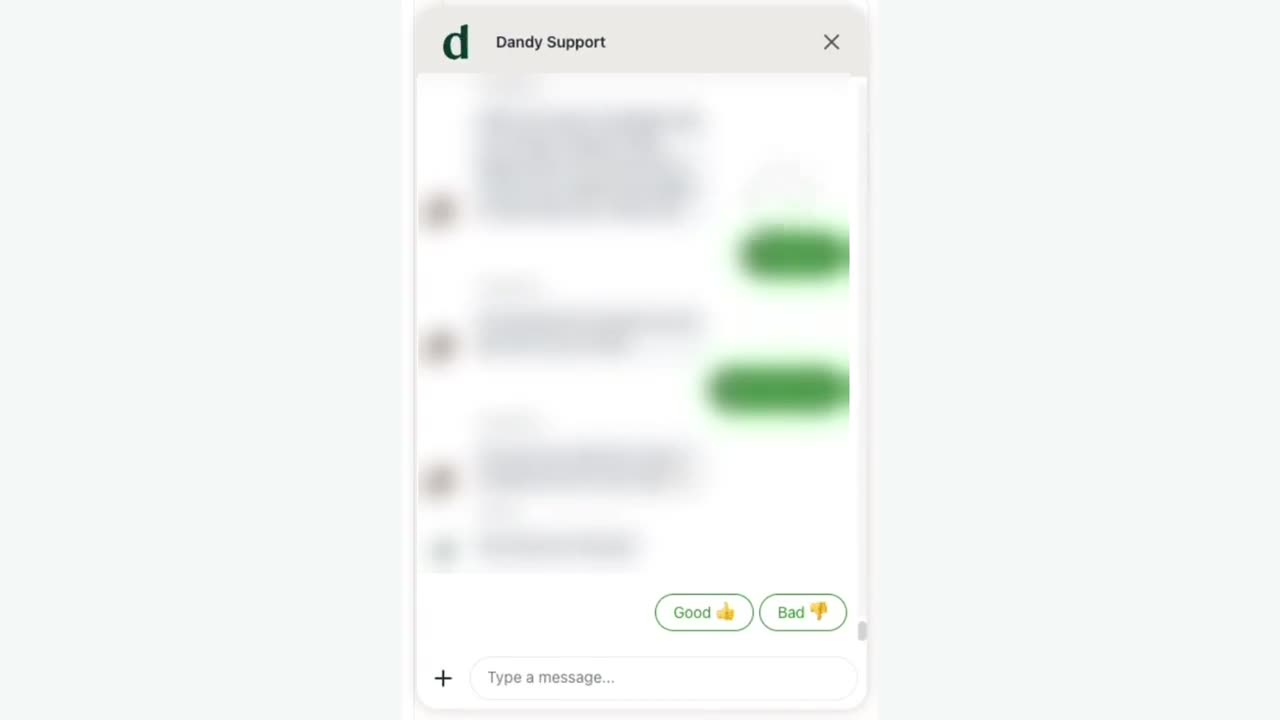
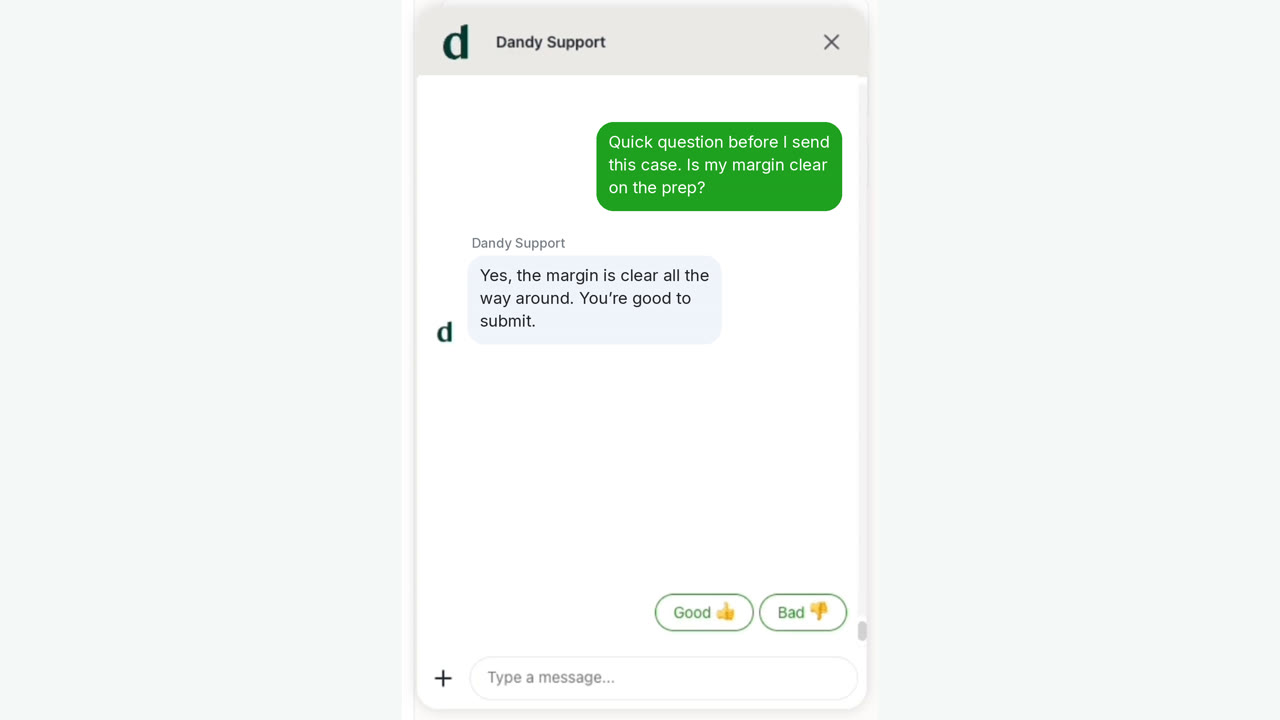
all/: generic example lab chat clip + poster; bump ?v=3, alt text and footnote (EN+ES)

diff --git a/all/es/index.html b/all/es/index.html
@@ -417,11 +417,11 @@ input[type=range]:active::-webkit-slider-thumb{transform:scale(1.15);box-shadow:
     <div class="feat">
       <figure class="feat-card"><div class="feat-media"><video data-feat data-src="../media/features/design-preview.mp4?v=1" poster="../media/features/design-preview.webp?v=1" muted loop playsinline autoplay preload="none" width="1280" height="720" aria-label="Video de la vista previa del diseño: revisión de márgenes, mapa de calor de contactos y marcado de una zona a corregir en el diseño 3D de una corona." title="Video de la vista previa del diseño: revisión de márgenes, mapa de calor de contactos y marcado de una zona a corregir en el diseño 3D de una corona."></video></div><figcaption><h3>Vista previa del diseño</h3><p>Apruebe el diseño antes de que se fabrique. Revise márgenes, contactos y contornos, marque lo que quiere cambiar y compare versiones.</p></figcaption></figure>
       <figure class="feat-card"><div class="feat-media"><video data-feat data-src="../media/features/live-scan.mp4?v=1" poster="../media/features/live-scan.webp?v=1" muted loop playsinline autoplay preload="none" width="1280" height="720" aria-label="Video del escaneo: un modelo 3D que se construye en tiempo real con vista de cámara en vivo." title="Video del escaneo: un modelo 3D que se construye en tiempo real con vista de cámara en vivo."></video></div><figcaption><h3>Revisión del escaneo en vivo</h3><p>Un técnico de laboratorio revisa su escaneo en menos de 2 minutos, por chat o por teléfono, mientras el paciente sigue en el sillón.</p></figcaption></figure>
-      <figure class="feat-card"><div class="feat-media"><video data-feat data-src="../media/features/lab-chat.mp4?v=2" poster="../media/features/lab-chat.webp?v=2" muted loop playsinline autoplay preload="none" width="1280" height="720" aria-label="Video del chat con el laboratorio: una chat de soporte dentro del portal de Dandy. Mensajes ocultos." title="Video del chat con el laboratorio: una conversación de soporte dentro del portal de Dandy. Nombres ocultos."></video></div><figcaption><h3>Chat con el laboratorio</h3><p>Respuestas en menos de un minuto, desde el mismo caso.</p></figcaption></figure>
+      <figure class="feat-card"><div class="feat-media"><video data-feat data-src="../media/features/lab-chat.mp4?v=3" poster="../media/features/lab-chat.webp?v=3" muted loop playsinline autoplay preload="none" width="1280" height="720" aria-label="Video del chat con el laboratorio: una chat de soporte dentro del portal de Dandy. Mensajes ocultos." title="Video del chat con el laboratorio: una conversación de soporte dentro del portal de Dandy. Nombres ocultos."></video></div><figcaption><h3>Chat con el laboratorio</h3><p>Respuestas en menos de un minuto, desde el mismo caso.</p></figcaption></figure>
       <figure class="feat-card"><div class="feat-media"><video data-feat data-src="../media/features/track-cases.mp4?v=2" poster="../media/features/track-cases.webp?v=2" muted loop playsinline autoplay preload="none" width="1280" height="720" aria-label="Video del panel de pedidos: cada caso con su estado y la opción para modificar la receta. Datos del caso ocultos." title="Video del panel de pedidos: cada caso con su estado, fecha de entrega y opción para modificar la receta. Nombres de pacientes ocultos."></video></div><figcaption><h3>Seguimiento de cada caso</h3><p>Vea todos sus casos, edite la receta y siga el envío, en la computadora o en la app móvil.</p></figcaption></figure>
       <figure class="feat-card feat-wide"><div class="feat-media"><img src="../media/features/video-call.webp?v=1" alt="Pantalla para agendar una videollamada con un técnico de laboratorio para revisar, modificar y aprobar un diseño. Rostros ocultos." width="1156" height="1020" loading="lazy" decoding="async"></div><figcaption><div class="feat-tag">Vista previa del diseño</div><h3>Revise el diseño en vivo</h3><p>Recorra el diseño en vivo con un técnico por videollamada antes de que pase a fabricación.</p></figcaption></figure>
     </div>
-    <p class="note">Videos del portal de Dandy y del software Chairside. Datos de los casos ocultos.</p>
+    <p class="note">Videos del portal de Dandy y del software Chairside. Datos de los casos ocultos. El chat es un ejemplo.</p>
   </div>
 </section>
 

diff --git a/all/index.html b/all/index.html
@@ -416,11 +416,11 @@ input[type=range]:active::-webkit-slider-thumb{transform:scale(1.15);box-shadow:
     <div class="feat">
       <figure class="feat-card"><div class="feat-media"><video data-feat data-src="media/features/design-preview.mp4?v=1" poster="media/features/design-preview.webp?v=1" muted loop playsinline autoplay preload="none" width="1280" height="720" aria-label="Design Preview clip: reviewing margin lines, a contact heatmap, and marking a problem area on a 3D crown design." title="Design Preview clip: reviewing margin lines, a contact heatmap, and marking a problem area on a 3D crown design."></video></div><figcaption><h3>Design Preview</h3><p>Approve the design before it&rsquo;s made. Check margins, contacts and contours, mark what to change, and compare versions.</p></figcaption></figure>
       <figure class="feat-card"><div class="feat-media"><video data-feat data-src="media/features/live-scan.mp4?v=1" poster="media/features/live-scan.webp?v=1" muted loop playsinline autoplay preload="none" width="1280" height="720" aria-label="Scanning clip: a 3D scan building in real time with a live camera view." title="Scanning clip: a 3D scan building in real time with a live camera view."></video></div><figcaption><h3>Live scan review</h3><p>A lab technician reviews your scan in under 2 minutes, by chat or phone, while the patient is still in the chair.</p></figcaption></figure>
-      <figure class="feat-card"><div class="feat-media"><video data-feat data-src="media/features/lab-chat.mp4?v=2" poster="media/features/lab-chat.webp?v=2" muted loop playsinline autoplay preload="none" width="1280" height="720" aria-label="Lab chat clip: a support chat inside the Dandy portal. Messages hidden." title="Lab chat clip: a support conversation inside the Dandy portal. Names hidden."></video></div><figcaption><h3>Lab chat</h3><p>Questions answered in under a minute, right from the case.</p></figcaption></figure>
+      <figure class="feat-card"><div class="feat-media"><video data-feat data-src="media/features/lab-chat.mp4?v=3" poster="media/features/lab-chat.webp?v=3" muted loop playsinline autoplay preload="none" width="1280" height="720" aria-label="Lab chat clip: an example conversation in the Dandy portal chat, a quick margin question answered by Dandy Support." title="Lab chat clip: a support conversation inside the Dandy portal. Names hidden."></video></div><figcaption><h3>Lab chat</h3><p>Questions answered in under a minute, right from the case.</p></figcaption></figure>
       <figure class="feat-card"><div class="feat-media"><video data-feat data-src="media/features/track-cases.mp4?v=2" poster="media/features/track-cases.webp?v=2" muted loop playsinline autoplay preload="none" width="1280" height="720" aria-label="Orders dashboard clip: every case with its status and the Modify Rx option. Case details hidden." title="Orders dashboard clip: every case with its status, delivery date and Modify Rx option. Patient names hidden."></video></div><figcaption><h3>Track every case</h3><p>See every case, edit the Rx and track shipping, on desktop or the mobile app.</p></figcaption></figure>
       <figure class="feat-card feat-wide"><div class="feat-media"><img src="media/features/video-call.webp?v=1" alt="Screen to schedule a video call with a lab technician to review, modify and approve a design. Faces hidden." width="1156" height="1020" loading="lazy" decoding="async"></div><figcaption><div class="feat-tag">Design Preview</div><h3>Review the design live</h3><p>Walk through the design live with a technician by video call before it goes to manufacturing.</p></figcaption></figure>
     </div>
-    <p class="note">Clips from the Dandy portal and Chairside software. Case details hidden.</p>
+    <p class="note">Clips from the Dandy portal and Chairside software. Case details hidden. Chat shown is an example.</p>
   </div>
 </section>
 
